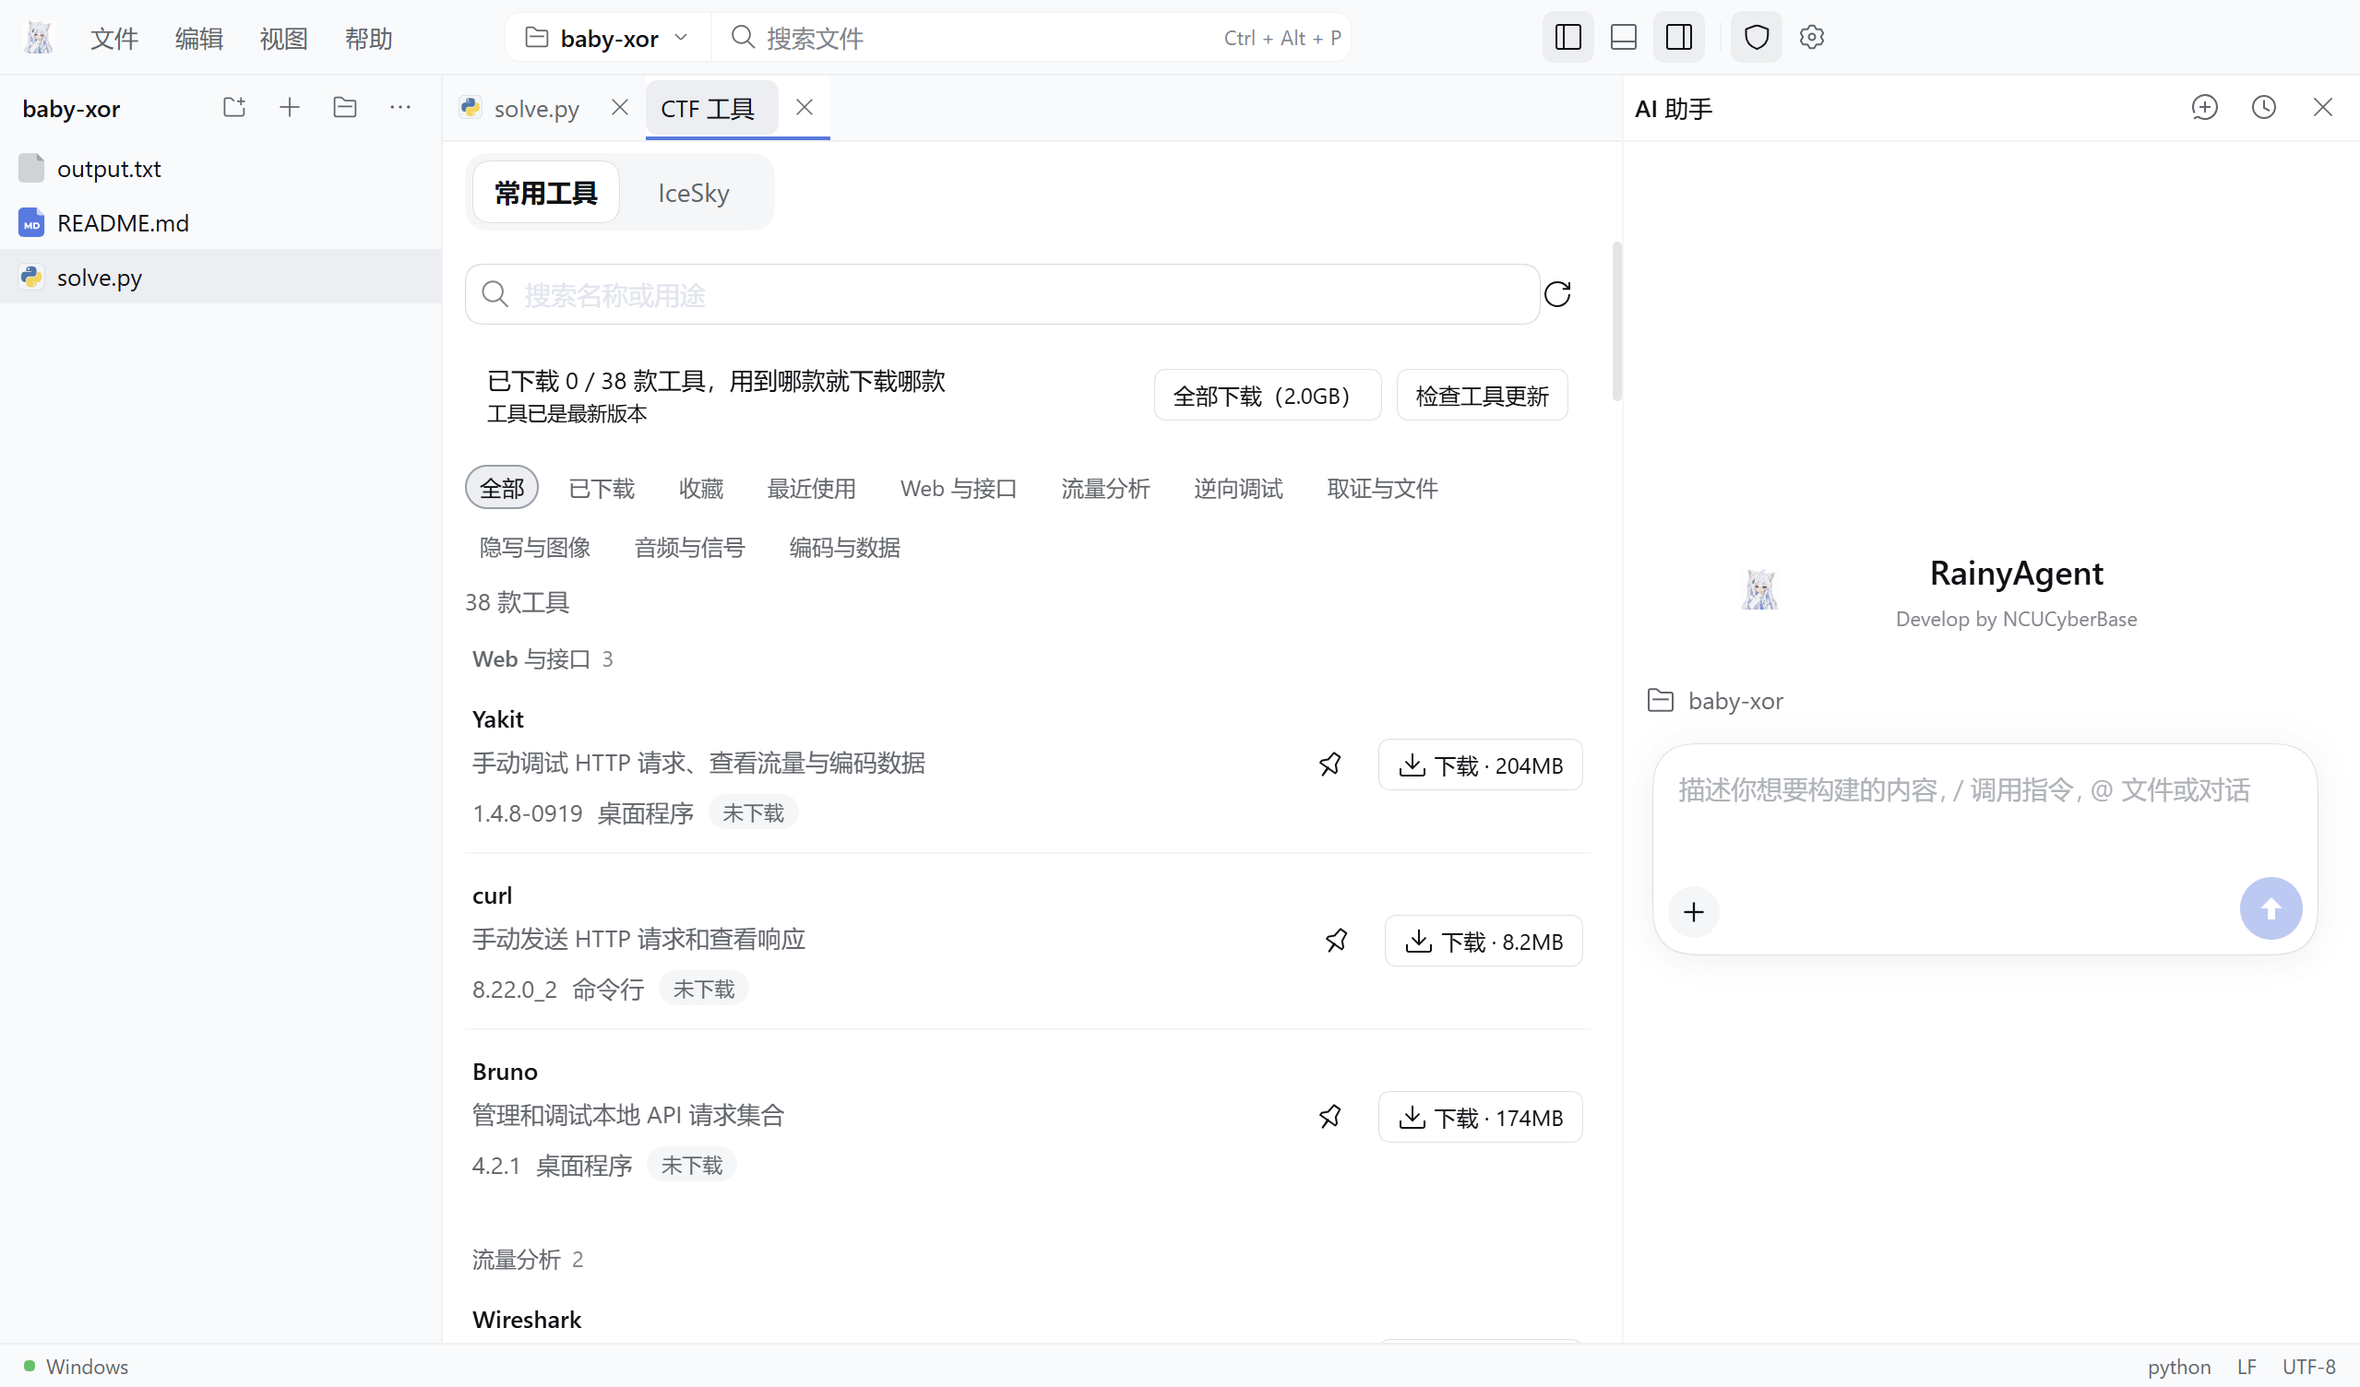
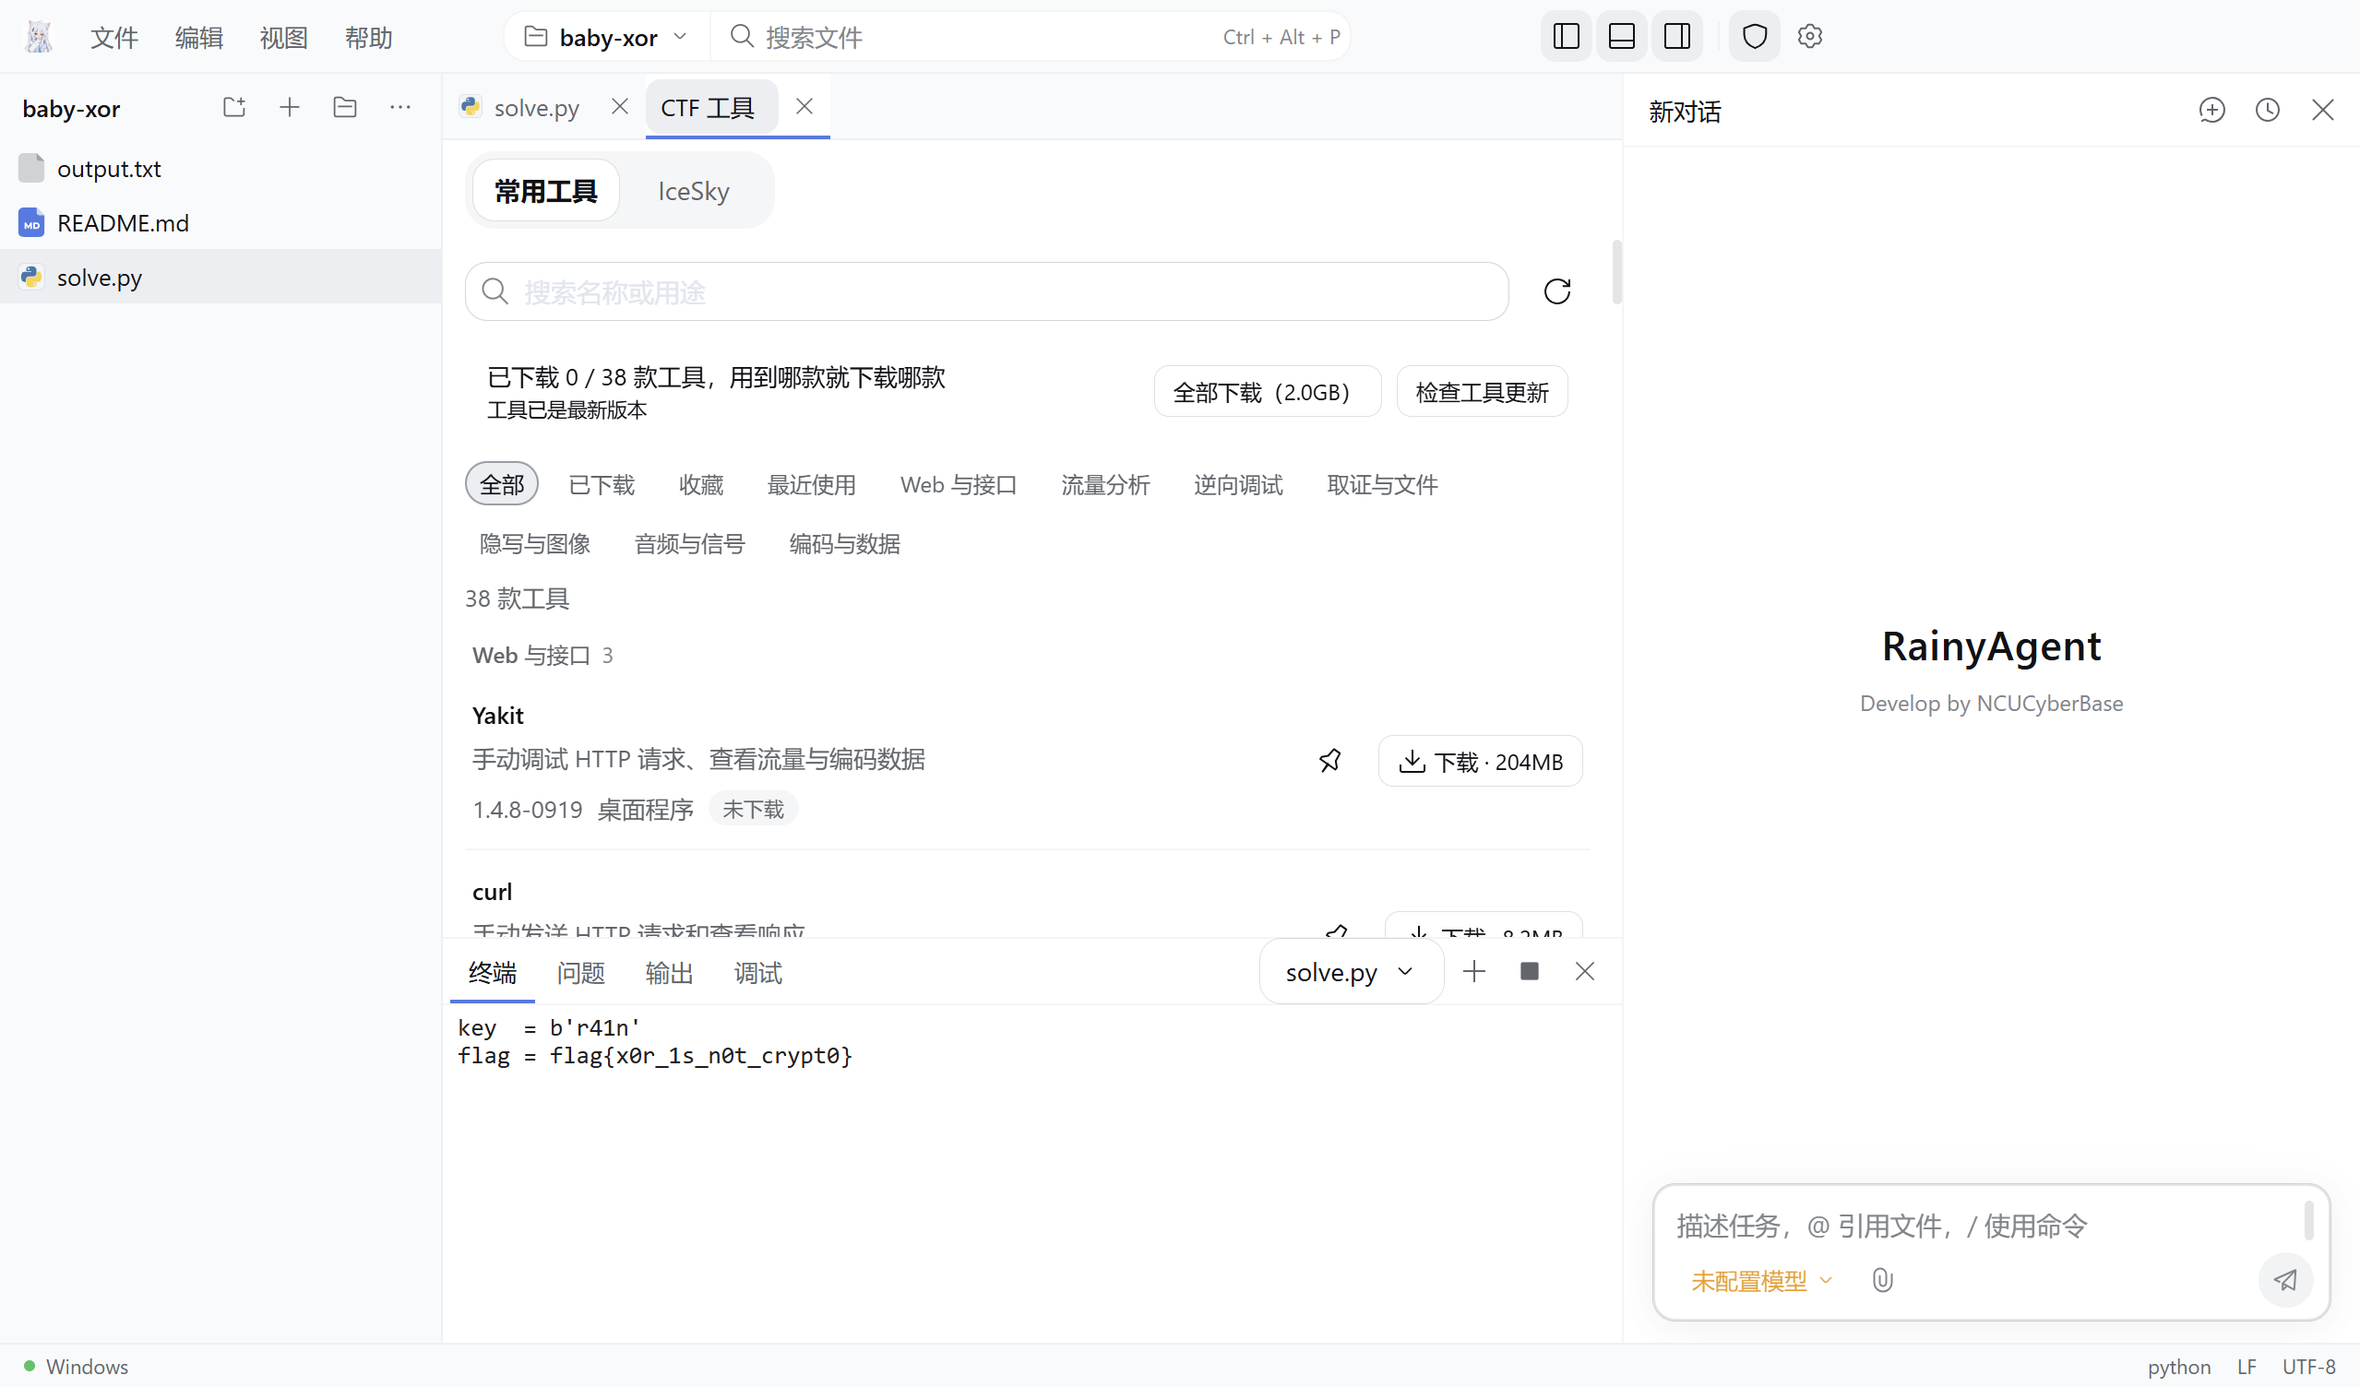
Describe 2.0 in the README with screenshots of the 2.0 workbench
Both READMEs gain a What's new in 2.0 section that also holds the 1.x upgrade notes. The screenshots were still from 1.x; they now come from the 2.0.0 build with a sample project. The WSL runtime is about 310 MB in 2.0.

diff --git a/README.md b/README.md
@@ -13,7 +13,7 @@
 
 English | [中文](README.zh.md)
 
-[**Download for Windows**](https://github.com/RainyMarks/RainyAgent/releases/latest) · [Quick start](#run) · [Connect a model](#connect-a-model) · [Build from source](#run-from-source)
+[**Download for Windows**](https://github.com/RainyMarks/RainyAgent/releases/latest) · [What's new](#whats-new) · [Quick start](#run) · [Connect a model](#connect-a-model) · [Build from source](#run-from-source)
 
 </div>
 
@@ -34,6 +34,22 @@ Write a solve script, run it, ask the AI why it fails, then open Wireshark or Cy
 
 ![CTF tools: download each tool when you need it](assets/ctf-tools.png)
 
+<a id="whats-new"></a>
+## What's new in 2.0
+
+RainyAgent 2.0 is a rewrite: the DeepSeek Harness plugin platform is gone, and the app is one package built on pi-ai and pi-agent-core.
+
+- **Lighter**: the installer is 293 MB (325 MB for 1.0.10) and the WSL runtime about 310 MB (was about 340 MB).
+- **CodeMirror 6 editor**: replaces Monaco and loads on demand; tabs, completion, hover, go to definition, rename, diagnostics and diffs remain.
+- **Chat history**: search chats, see them grouped as pinned, current project and other projects, and rename, pin, archive or delete them.
+- **Cheaper compaction**: compaction reuses the chat's prompt cache, and the chat shows when it is compacting.
+- **MCP and skills**: MCP servers are configured once in Settings, Streamable HTTP servers accept request headers such as `Authorization`, and skills are read from `.rainy/skills` automatically.
+- **Presets in the model list**: DeepSeek V4.1 Flash, Claude Opus 5.5 and Claude Haiku 5.5 are listed beside your saved models; select **Load** to use one.
+
+### Upgrading from 1.x
+
+RainyAgent 2.0 imports your saved models, API keys and global prompt from 1.x on first start. Chats from 1.x use the old Harness session format and are not imported; per-chat extension settings are replaced by the global MCP settings and automatic skills.
+
 <a id="run"></a>
 ## Download and start
 
@@ -46,14 +62,10 @@ Write a solve script, run it, ask the AI why it fails, then open Wireshark or Cy
 |---|---|---|
 | Strata engine | about 560 MB | **Settings → Runtime environments → Optional components** |
 | PHP | about 38 MB | **Settings → Runtime environments → Optional components** |
-| WSL runtime | about 340 MB | Downloaded automatically on the first WSL launch |
+| WSL runtime | about 310 MB | Downloaded automatically on the first WSL launch |
 | CTF tools | 1 MB – 400 MB each | **CTF tools → Common tools** |
 
 RainyAgent checks for stable releases and downloads them in the background. A downloaded update offers **Later** or **Restart and install**; ordinary exit does not install it, and updates never download your tools again. See [tool installation and updates](docs/desktop.md#ctf-workbench) for details.
-
-### Upgrading from 1.x
-
-RainyAgent 2.0 imports your saved models, API keys and global prompt from 1.x on first start. Chats from 1.x use the old Harness session format and are not imported; per-chat extension settings are replaced by the global MCP settings and automatic skills.
 
 <a id="connect-a-model"></a>
 ## Connect a model

diff --git a/docs/desktop-setup.zh-CN.md b/docs/desktop-setup.zh-CN.md
@@ -9,7 +9,7 @@
 1. 运行 `RainyAgent-2.0.0-windows-x64-setup.exe` 安装核心。完整离线部署请保留 `environment/`、`environment-components/`、全部 `rainy-unit-*.tar.gz` 工具归档及校验清单。工具归档为可选项：放在安装程序旁时，安装程序会安装其中每个单元；不带归档更新时保留已安装工具，之后可在“常用工具”中按工具下载。安装包可选择目录，Windows Authenticode 签名情况以最终产物记录为准。
 2. 提供工具归档时，工具安装窗口会校验文件和目标空间再安装。点击取消后等待安全停止；使用同一组归档重新运行安装程序可重试并复用已验证暂存。归档损坏时应换成匹配文件后重试。
 3. 从桌面 RainyAgent 快捷方式启动，无需设备码、激活码或授权管理器。已有保存的 WSL 目标继续保留；新安装先使用 Windows。运行环境页可以选择已有 WSL，或点击准备环境并选择外置 `environment/` 目录创建专用 Ubuntu。需要系统组件时明确请求管理员确认；若提示重启，保存其他工作、自行重启后再次打开应用。首次启动会校验全部发行资源，之后启动直接打开；已记录的 WSL 目标跳过环境检查窗口。
-4. 安装或更新后首次以 WSL 启动时，应用会联网下载本版本的 WSL 运行环境（约 340 MB），启动页显示进度；发行版中已解包本版本运行环境时不下载。下载失败时可选择“重试”“改用 Windows 原生运行”（记录为执行目标，与在设置中切换相同）或“退出”。
+4. 安装或更新后首次以 WSL 启动时，应用会联网下载本版本的 WSL 运行环境（约 310 MB），启动页显示进度；发行版中已解包本版本运行环境时不下载。下载失败时可选择“重试”“改用 Windows 原生运行”（记录为执行目标，与在设置中切换相同）或“退出”。
 5. 若原发行版丢失，恢复向导保留原名称供处理。执行目标切换前保存草稿，运行中或排队中的任务、程序、调试和终端会阻止切换。项目公开身份与项目记忆跨目标保留，旧聊天及其运行状态留在原 Host，重新选择原目标即可访问。
 6. 通过“文件 → 打开文件夹”创建或打开项目；初次启动不会自动创建桌面项目。“添加文件夹”挂载额外根目录。Windows 原生目标直接使用 Windows 路径；WSL 目标映射至发行版路径。图片和无原生路径的粘贴内容仍走上传流程。
 7. 打开顶部设置中的“模型”，可通过 Strata 卡片下载引擎（首次使用时），再选择自己的主模型与配套 MTP 权重并启动。连接其他服务时，填写供应商、服务地址、协议及可选密钥后即可点击“发现模型”，无需预先知道模型 ID 或上下文长度；选定或手填模型 ID，设置实际上下文长度并保存，再执行“验证流式与工具调用”。模型发现不保存配置，也不能替代这项诊断。

diff --git a/README.zh.md b/README.zh.md
@@ -13,7 +13,7 @@
 
 [English](README.md) | 中文
 
-[**下载 Windows 版**](https://github.com/RainyMarks/RainyAgent/releases/latest) · [快速开始](#run) · [连接模型](#connect-a-model) · [从源码构建](#run-from-source)
+[**下载 Windows 版**](https://github.com/RainyMarks/RainyAgent/releases/latest) · [2.0 新变化](#whats-new) · [快速开始](#run) · [连接模型](#connect-a-model) · [从源码构建](#run-from-source)
 
 </div>
 
@@ -34,6 +34,22 @@
 
 ![CTF 工具：用到哪款就下载哪款](assets/ctf-tools.png)
 
+<a id="whats-new"></a>
+## 2.0 新变化
+
+2.0 是一次重写：RainyAgent 不再基于 DeepSeek Harness 插件平台，改为基于 pi-ai 与 pi-agent-core 的单一代码包。
+
+- **更轻**：安装包 293 MB（1.0.10 为 325 MB），WSL 运行环境约 310 MB（原约 340 MB）。
+- **CodeMirror 6 编辑器**：取代 Monaco，按需加载；标签页、补全、悬停提示、转到定义、重命名、诊断和差异对比都保留。
+- **对话历史**：可搜索，按置顶、当前项目、其他项目分组，支持重命名、置顶、归档和删除。
+- **压缩更省钱**：上下文压缩复用对话的提示词缓存，压缩时对话里会显示“正在压缩上下文…”。
+- **MCP 与 Skills**：MCP 服务在设置中统一配置，Streamable HTTP 服务可填写请求头（如 `Authorization`）；Skills 从 `.rainy/skills` 自动读取。
+- **预设进了模型列表**：DeepSeek V4.1 Flash、Claude Opus 5.5 和 Claude Haiku 5.5 预设与已保存的模型列在一起，点击**载入**即可使用。
+
+### 从 1.x 升级
+
+2.0 首次启动时会从 1.x 导入已保存的模型、API 密钥和全局提示词。1.x 的对话使用旧的 Harness 会话格式，不会导入；按对话设置的扩展改为全局 MCP 设置和自动读取的 Skills。
+
 <a id="run"></a>
 ## 下载与开始使用
 
@@ -46,14 +62,10 @@
 |---|---|---|
 | Strata 引擎 | 约 560 MB | **设置 → 运行环境 → 可选组件** |
 | PHP | 约 38 MB | **设置 → 运行环境 → 可选组件** |
-| WSL 运行环境 | 约 340 MB | 首次以 WSL 启动时自动下载 |
+| WSL 运行环境 | 约 310 MB | 首次以 WSL 启动时自动下载 |
 | CTF 工具 | 每款 1 MB – 400 MB | **CTF 工具 → 常用工具** |
 
 RainyAgent 会检查稳定版更新并在后台下载。下载完成后可选择**稍后**或**重启安装**；普通退出不会安装更新，更新也不会重新下载你的工具。详见[工具安装与更新](docs/desktop.zh.md#ctf-workbench)。
-
-### 从 1.x 升级
-
-2.0 首次启动时会从 1.x 导入已保存的模型、API 密钥和全局提示词。1.x 的对话使用旧的 Harness 会话格式，不会导入；按对话设置的扩展改为全局 MCP 设置和自动读取的 Skills。
 
 <a id="connect-a-model"></a>
 ## 连接模型

diff --git a/docs/desktop.md b/docs/desktop.md
@@ -24,7 +24,7 @@ The core installer does not contain the Strata engine, Windows PHP or the WSL Li
 
 Settings → Runtime environments → Optional components downloads and removes the Strata engine (about 560 MB) and PHP. The Strata engine is the archive already published as the 1.0.0 build input `build-inputs/strata-runtime.tar.gz`; [Strata local inference](#strata-local-inference) describes its contents and use. PHP serves native Windows targets; Code workspace describes how a project selects it.
 
-The WSL runtime (about 340 MB) is specific to each RainyAgent version and is published in the 2.0.0 resource archive. The first WSL launch after installing or updating downloads it, with progress on the startup page; if this version's runtime is already unpacked in the distribution, nothing is downloaded. If the download fails, the dialog offers Retry, continue with Windows native, or Exit. Continuing with Windows native records Windows as the execution target, like a switch in settings. About a minute after a WSL start, the installed application deletes the runtimes earlier versions unpacked in `~/.rainy-agent/runtime`, keeping this version's runtime and any runtime a running process still uses.
+The WSL runtime (about 310 MB) is specific to each RainyAgent version and is published in the 2.0.0 resource archive. The first WSL launch after installing or updating downloads it, with progress on the startup page; if this version's runtime is already unpacked in the distribution, nothing is downloaded. If the download fails, the dialog offers Retry, continue with Windows native, or Exit. Continuing with Windows native records Windows as the execution target, like a switch in settings. About a minute after a WSL start, the installed application deletes the runtimes earlier versions unpacked in `~/.rainy-agent/runtime`, keeping this version's runtime and any runtime a running process still uses.
 
 About 60 seconds after startup, the packaged application deletes resources that earlier installers left in its `resources` directory: `strata-runtime`, `php`, `linux-runtime.tar.gz`, `native-tools-metadata.json`, `native-tools-download.json` and `native-tools-catalog.json`.
 

diff --git a/docs/desktop.zh.md b/docs/desktop.zh.md
@@ -24,7 +24,7 @@ RainyAgent 使用 Windows x64 Electron 外壳；核心安装包包含 Windows Ho
 
 “设置 → 运行环境 → 可选组件”可下载和删除 Strata 引擎（约 560 MB）及 PHP。Strata 引擎就是已作为 1.0.0 构建输入 `build-inputs/strata-runtime.tar.gz` 发布的归档；[Strata 本地推理](#strata-local-inference)说明其内容和用法。PHP 用于 Windows 原生目标；“代码工作区”一节说明项目如何选择 PHP。
 
-WSL 运行环境（约 340 MB）与每个 RainyAgent 版本对应，发布在 2.0.0 资源存档中。安装或更新后首次以 WSL 启动时自动下载，启动页显示进度；发行版中已解包本版本运行环境时不下载。下载失败时，对话框提供“重试”“改用 Windows 原生运行”和“退出”。改用 Windows 原生运行会把 Windows 记录为执行目标，与在设置中切换相同。以 WSL 启动约一分钟后，已安装的应用会删除旧版本解压在 `~/.rainy-agent/runtime` 中的运行环境，保留本版本以及仍有进程在使用的运行环境。
+WSL 运行环境（约 310 MB）与每个 RainyAgent 版本对应，发布在 2.0.0 资源存档中。安装或更新后首次以 WSL 启动时自动下载，启动页显示进度；发行版中已解包本版本运行环境时不下载。下载失败时，对话框提供“重试”“改用 Windows 原生运行”和“退出”。改用 Windows 原生运行会把 Windows 记录为执行目标，与在设置中切换相同。以 WSL 启动约一分钟后，已安装的应用会删除旧版本解压在 `~/.rainy-agent/runtime` 中的运行环境，保留本版本以及仍有进程在使用的运行环境。
 
 启动约 60 秒后，安装版会删除旧安装程序留在 `resources` 目录中的资源：`strata-runtime`、`php`、`linux-runtime.tar.gz`、`native-tools-metadata.json`、`native-tools-download.json` 和 `native-tools-catalog.json`。
 
